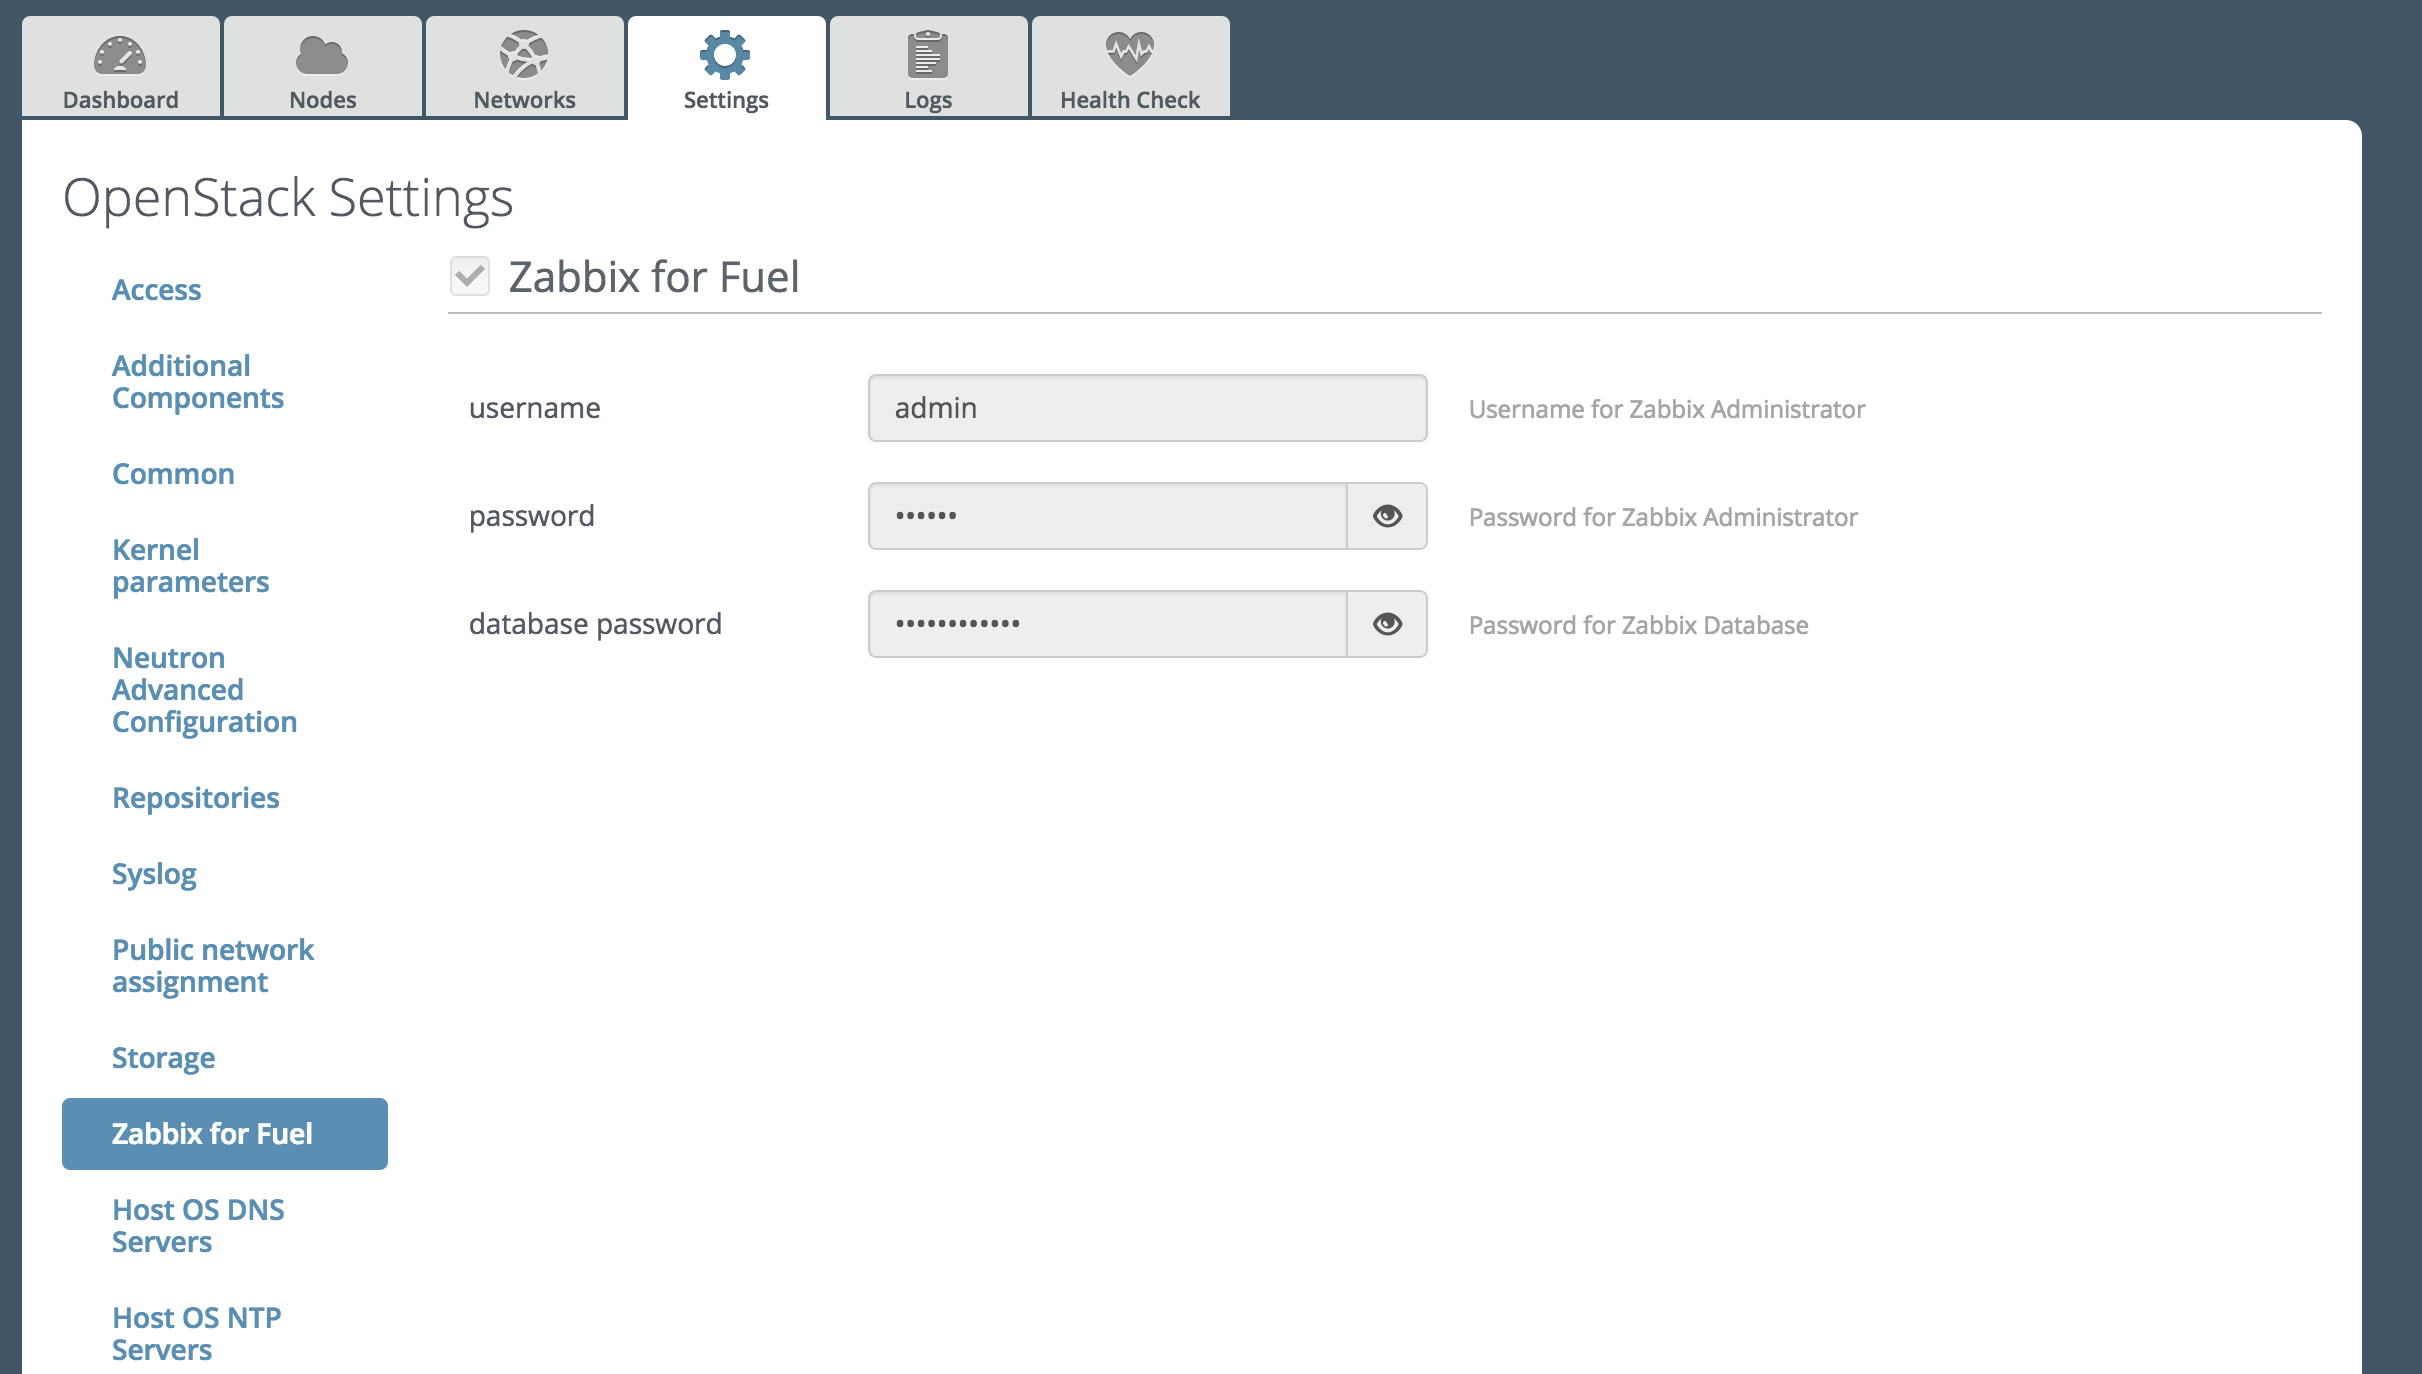
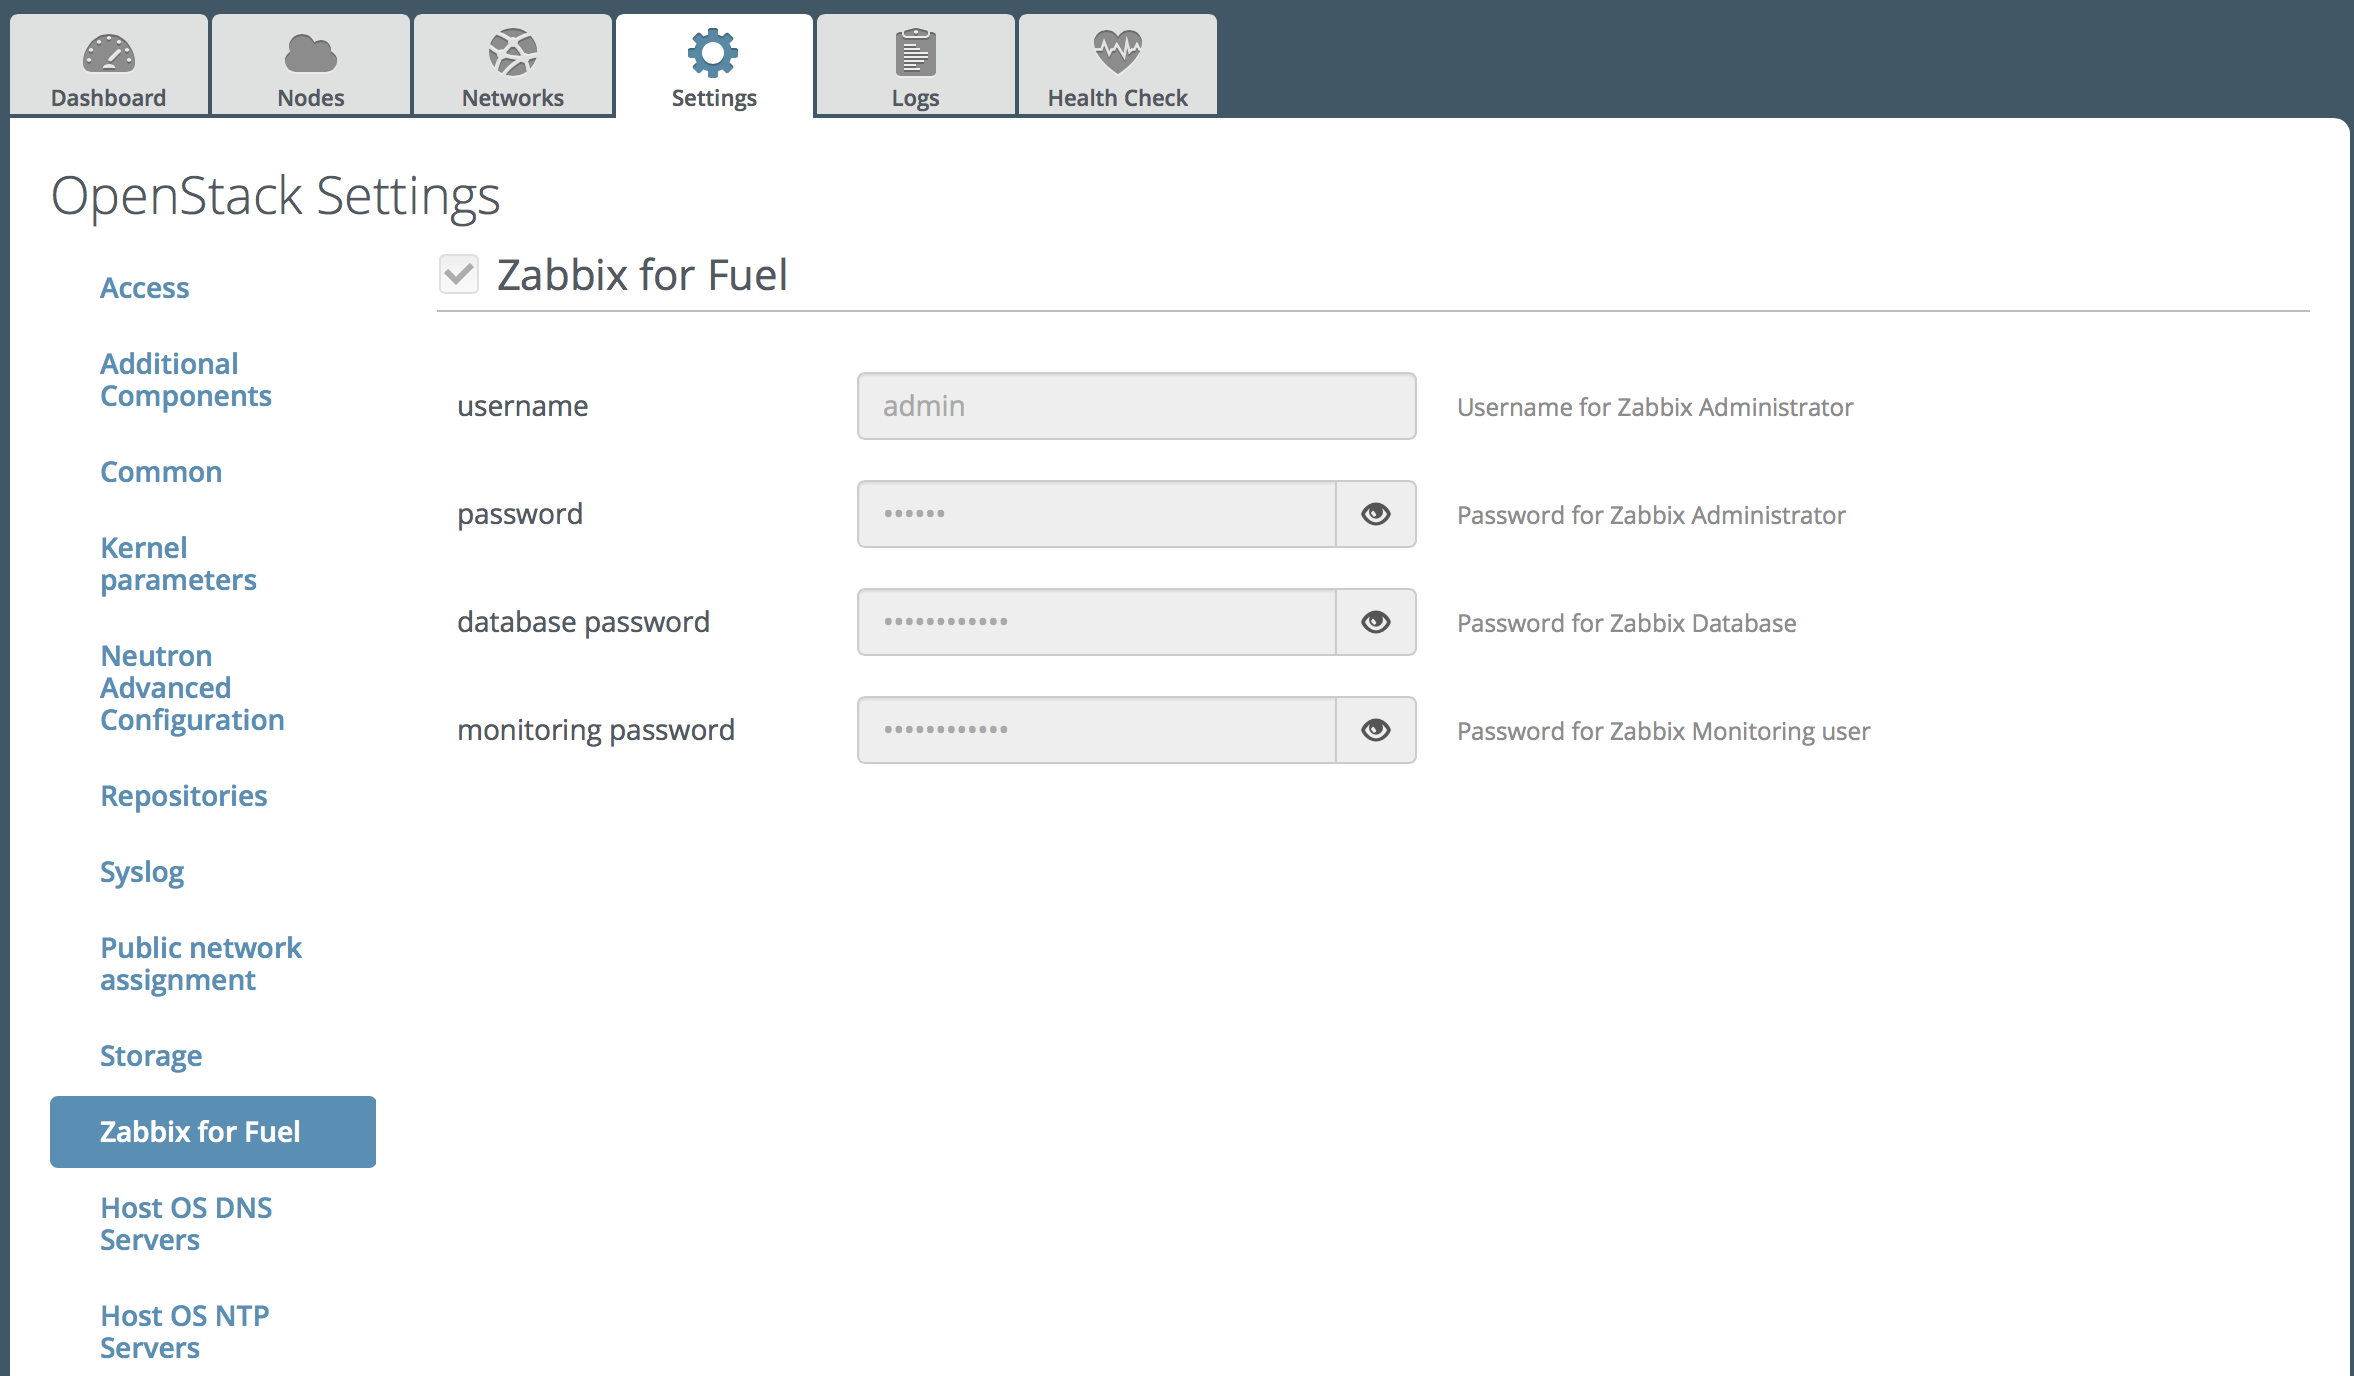
separate openstack user for zabbix openstack API checks
Closes-Bug: #1496043

diff --git a/doc/content/guide.rst b/doc/content/guide.rst
@@ -21,8 +21,9 @@ Environment configuration
       :width: 50%
 
    You could see default passwords by clicking on the eye icon. It is highly
-   recommended to change default passwords for Zabbix Administrator and
-   Zabbix Database.
+   recommended to change default passwords for Zabbix Administrator,
+   Zabbix Database and Monitoring user. User 'monitoring' will be added in
+   Openstack for zabbix API checks.
 
 #. Adjust other environment settings to your requirements and deploy the
    environment. For more information, see
